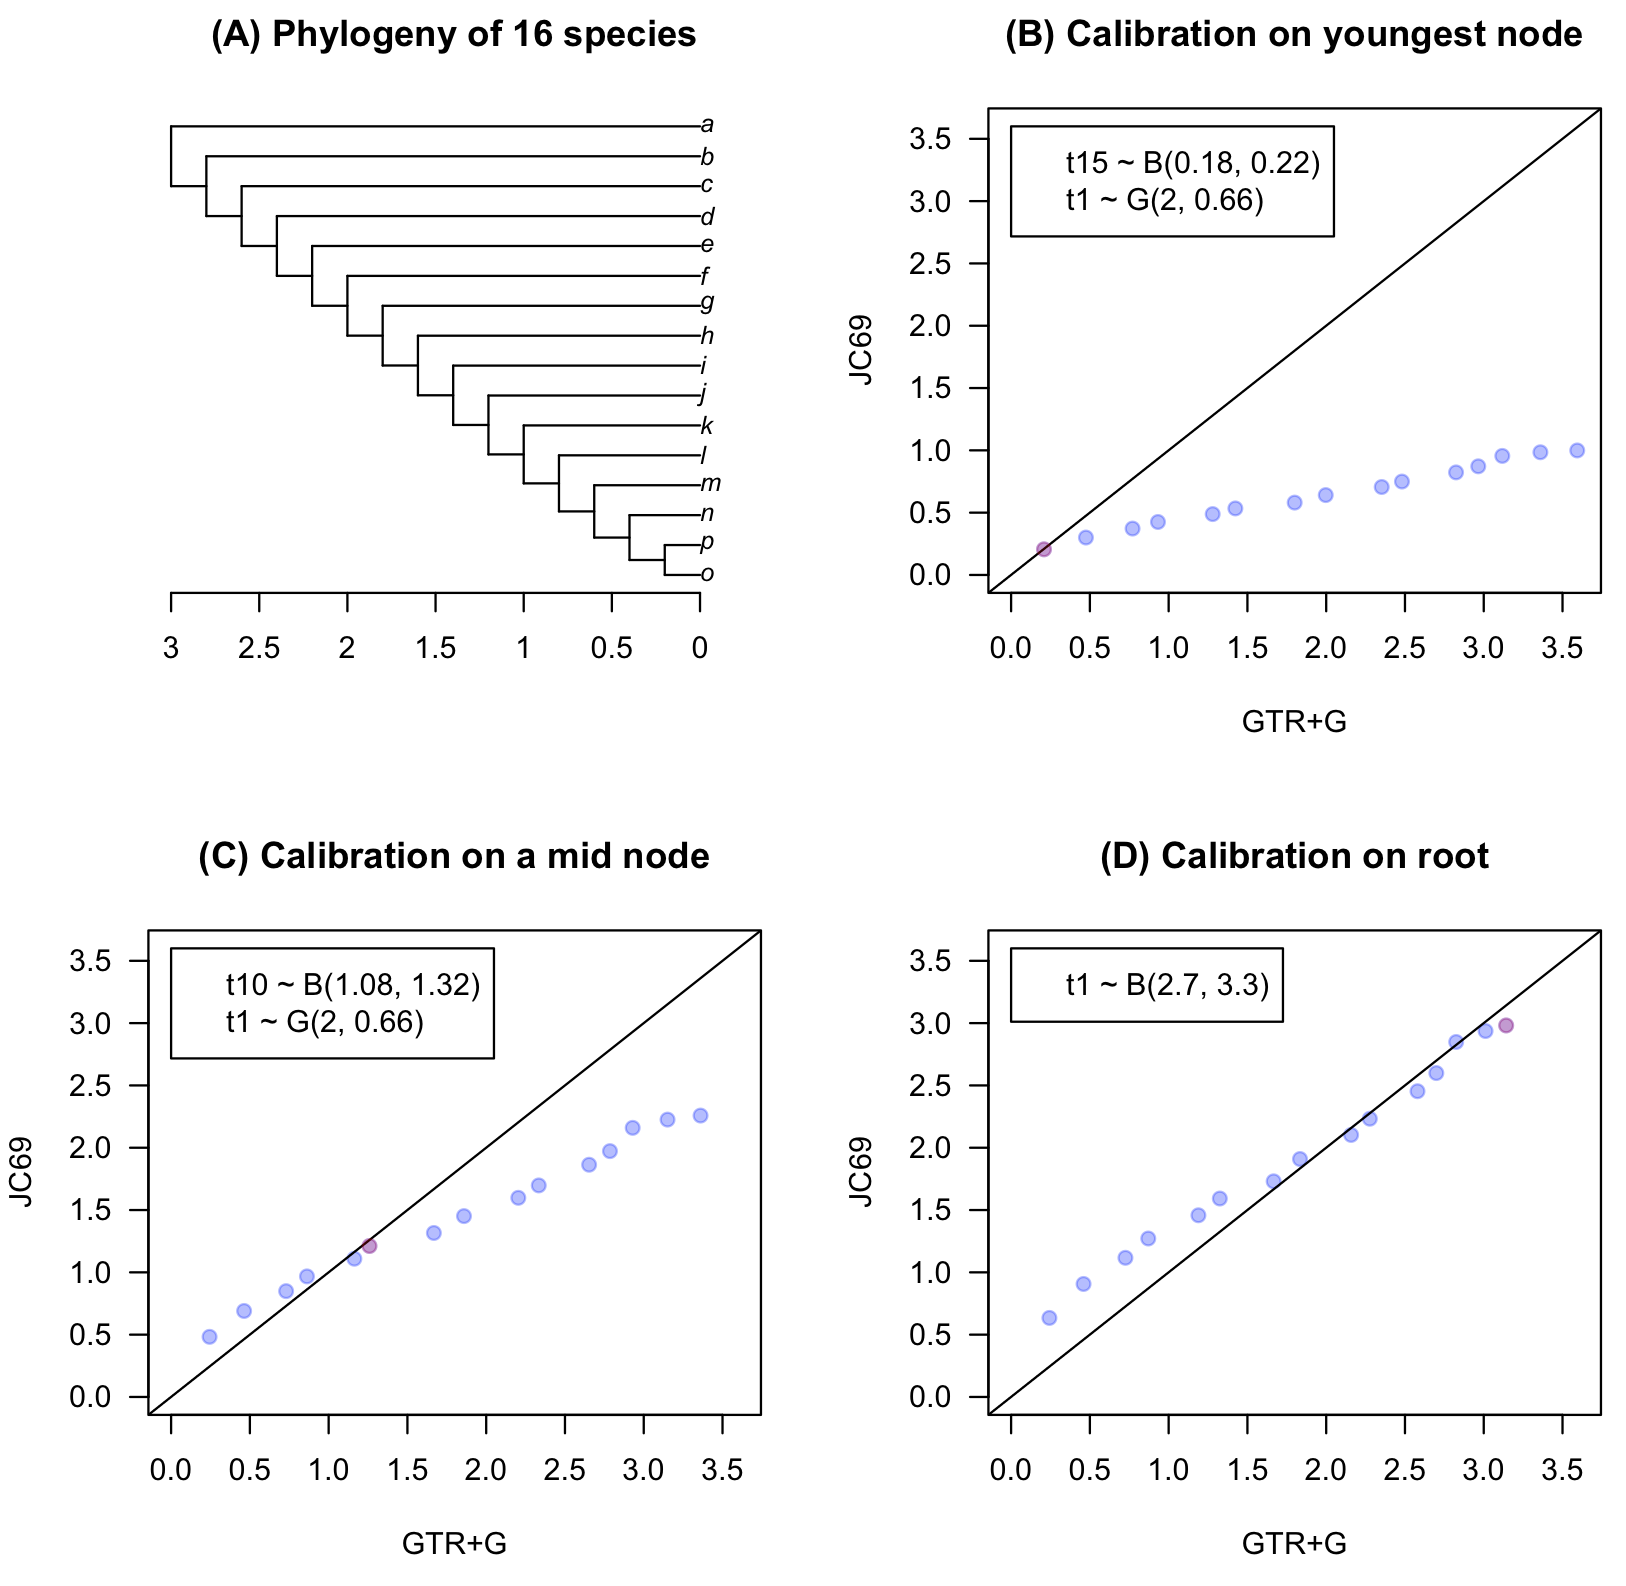
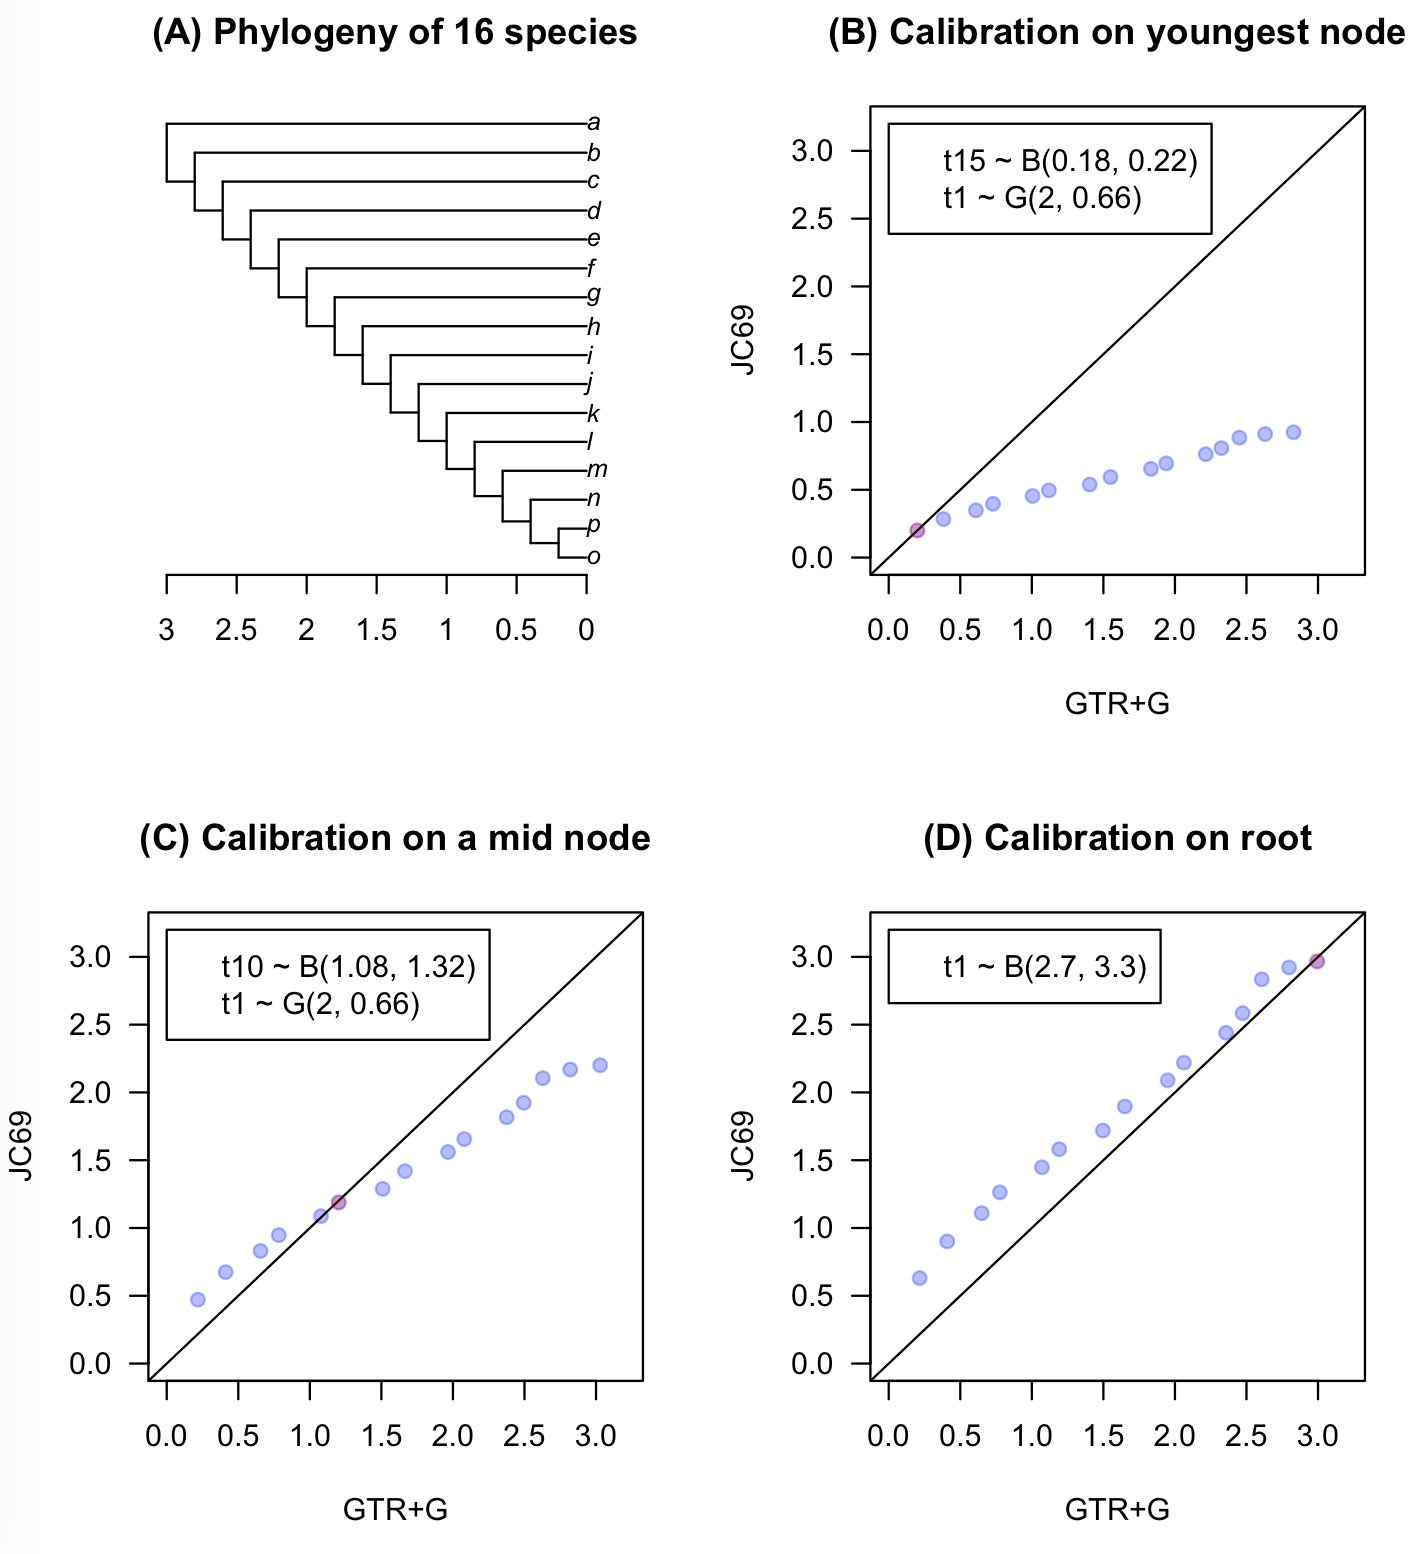
Update results in "Simple analysis" post after fixing the rate prior. It was r ~ G(2, 20), which is too low, in the previous version and has been fixed to r ~ G(2, 2), which matches the mean rate in the simulations.

diff --git a/_posts/2020-01-01-JC69vGTRG.md b/_posts/2020-01-01-JC69vGTRG.md
@@ -12,7 +12,7 @@ Evolver v4.9e. Mean substitution rate is 1.
 
 The data are then analysed with MCMCtree v4.9f to recover the divergence times under
 the JC69 and GTR+G substitution models using the approximate likelihood
-method and the strict clock.
+method and the strict clock. The rate prior is G(2, 2).
 
 In Figure 1B, posterior mean times estimated under JC69 are shown in the y axis,
 while corresponding estimates for GTR+G are shown in the x axis. Times are
@@ -71,109 +71,109 @@ Time estimates (the true ages for the 15 nodes are 0.2, 0.4, 0.6, ..., 2.6, 2.8,
 ```
 # Informative calibration on youngest node - JC69:
 node t t025 t975 t025.hpd t975.hpd w.hpd
-t_n17 0.9991 0.8160 1.2175 0.8068 1.2029 0.3960
-t_n18 0.9846 0.8059 1.1990 0.7941 1.1811 0.3870
-t_n19 0.9554 0.7806 1.1624 0.7723 1.1498 0.3774
-t_n20 0.8718 0.7136 1.0582 0.7001 1.0399 0.3398
-t_n21 0.8230 0.6746 0.9973 0.6639 0.9840 0.3201
-t_n22 0.7496 0.6145 0.9086 0.6097 0.9001 0.2904
-t_n23 0.7059 0.5772 0.8552 0.5727 0.8486 0.2760
-t_n24 0.6410 0.5247 0.7772 0.5187 0.7697 0.2510
-t_n25 0.5806 0.4756 0.7021 0.4674 0.6920 0.2246
-t_n26 0.5339 0.4378 0.6452 0.4329 0.6372 0.2044
-t_n27 0.4885 0.4010 0.5881 0.3984 0.5848 0.1865
-t_n28 0.4252 0.3501 0.5101 0.3459 0.5046 0.1588
-t_n29 0.3723 0.3080 0.4444 0.3058 0.4412 0.1354
-t_n30 0.3002 0.2521 0.3531 0.2494 0.3493 0.0999
-t_n31 0.2057 0.1816 0.2208 0.1829 0.2214 0.0385
+t_n17 0.9246 0.7374 1.1192 0.7326 1.1133 0.3808
+t_n18 0.9112 0.7262 1.0998 0.7190 1.0911 0.3720
+t_n19 0.8843 0.7046 1.0672 0.6988 1.0580 0.3593
+t_n20 0.8074 0.6478 0.9707 0.6438 0.9651 0.3213
+t_n21 0.7626 0.6131 0.9164 0.6113 0.9139 0.3026
+t_n22 0.6945 0.5583 0.8349 0.5600 0.8360 0.2760
+t_n23 0.6540 0.5263 0.7880 0.5180 0.7780 0.2600
+t_n24 0.5939 0.4794 0.7154 0.4767 0.7121 0.2354
+t_n25 0.5384 0.4346 0.6475 0.4312 0.6433 0.2121
+t_n26 0.4956 0.4017 0.5947 0.3981 0.5898 0.1917
+t_n27 0.4542 0.3678 0.5455 0.3635 0.5399 0.1764
+t_n28 0.3966 0.3228 0.4750 0.3205 0.4722 0.1517
+t_n29 0.3485 0.2862 0.4164 0.2840 0.4131 0.1291
+t_n30 0.2838 0.2378 0.3339 0.2366 0.3321 0.0955
+t_n31 0.1999 0.1800 0.2199 0.1802 0.2201 0.0399
 
 # Informative calibration on youngest node - GTR+G:
 node t t025 t975 t025.hpd t975.hpd w.hpd
-t_n17 3.5934 2.7091 4.7786 2.6343 4.6371 2.0029
-t_n18 3.3596 2.5708 4.3645 2.4917 4.2579 1.7662
-t_n19 3.1178 2.3844 4.0521 2.3242 3.9596 1.6354
-t_n20 2.9652 2.2758 3.8480 2.2114 3.7455 1.5341
-t_n21 2.8242 2.1690 3.6543 2.1355 3.5898 1.4543
-t_n22 2.4809 1.9058 3.2078 1.8807 3.1547 1.2741
-t_n23 2.3524 1.8073 3.0430 1.7701 2.9820 1.2119
-t_n24 1.9971 1.5198 2.6110 1.4753 2.5470 1.0717
-t_n25 1.7999 1.3730 2.3360 1.3421 2.2895 0.9474
-t_n26 1.4235 1.0848 1.8502 1.0614 1.8171 0.7557
-t_n27 1.2795 0.9724 1.6617 0.9339 1.6166 0.6827
-t_n28 0.9322 0.7040 1.2203 0.6879 1.1984 0.5106
-t_n29 0.7710 0.5842 1.0131 0.5700 0.9884 0.4184
-t_n30 0.4750 0.3608 0.6225 0.3518 0.6111 0.2593
-t_n31 0.2088 0.1846 0.2212 0.1872 0.2222 0.0350
+t_n17 2.8292 2.0607 3.8926 1.9619 3.7189 1.7570
+t_n18 2.6302 1.9624 3.4740 1.8940 3.3854 1.4914
+t_n19 2.4503 1.8236 3.2318 1.7728 3.1654 1.3926
+t_n20 2.3249 1.7360 3.0642 1.6732 2.9858 1.3126
+t_n21 2.2156 1.6535 2.9121 1.6364 2.8797 1.2433
+t_n22 1.9393 1.4553 2.5470 1.4271 2.5047 1.0775
+t_n23 1.8326 1.3719 2.4133 1.3306 2.3465 1.0159
+t_n24 1.5499 1.1505 2.0472 1.1294 2.0148 0.8854
+t_n25 1.4043 1.0503 1.8555 1.0240 1.8149 0.7908
+t_n26 1.1195 0.8351 1.4744 0.8106 1.4403 0.6297
+t_n27 1.0053 0.7478 1.3266 0.7245 1.2942 0.5697
+t_n28 0.7287 0.5416 0.9686 0.5345 0.9553 0.4208
+t_n29 0.6095 0.4545 0.8047 0.4446 0.7891 0.3445
+t_n30 0.3821 0.2916 0.4990 0.2832 0.4870 0.2038
+t_n31 0.2002 0.1801 0.2201 0.1802 0.2202 0.0400
 
 # Informative calibration on mid node - JC69:
 node t t025 t975 t025.hpd t975.hpd w.hpd
-t_n17 2.2581 1.9377 2.5930 1.9339 2.5854 0.6516
-t_n18 2.2257 1.9127 2.5521 1.9025 2.5403 0.6378
-t_n19 2.1597 1.8521 2.4801 1.8478 2.4736 0.6258
-t_n20 1.9728 1.7014 2.2558 1.6949 2.2476 0.5527
-t_n21 1.8635 1.6140 2.1244 1.6112 2.1213 0.5101
-t_n22 1.6975 1.4730 1.9288 1.4721 1.9270 0.4549
-t_n23 1.5981 1.3912 1.8098 1.3887 1.8064 0.4177
-t_n24 1.4514 1.2696 1.6332 1.2654 1.6271 0.3617
-t_n25 1.3160 1.1609 1.4649 1.1603 1.4636 0.3032
-t_n26 1.2115 1.0821 1.3220 1.0840 1.3238 0.2397
-t_n27 1.1093 0.9737 1.2351 0.9772 1.2378 0.2606
-t_n28 0.9675 0.8378 1.0925 0.8391 1.0937 0.2546
-t_n29 0.8492 0.7293 0.9720 0.7252 0.9675 0.2423
-t_n30 0.6901 0.5801 0.8042 0.5796 0.8035 0.2239
-t_n31 0.4825 0.3935 0.5797 0.3885 0.5741 0.1856
+t_n17 2.2005 1.9058 2.5448 1.9030 2.5383 0.6354
+t_n18 2.1690 1.8807 2.5020 1.8807 2.5016 0.6209
+t_n19 2.1052 1.8263 2.4340 1.8160 2.4215 0.6056
+t_n20 1.9232 1.6746 2.2143 1.6583 2.1938 0.5356
+t_n21 1.8170 1.5859 2.0877 1.5764 2.0750 0.4986
+t_n22 1.6561 1.4507 1.8987 1.4424 1.8892 0.4469
+t_n23 1.5606 1.3707 1.7804 1.3642 1.7725 0.4082
+t_n24 1.4192 1.2565 1.6133 1.2524 1.6066 0.3541
+t_n25 1.2886 1.1521 1.4507 1.1468 1.4439 0.2970
+t_n26 1.1886 1.0786 1.3186 1.0765 1.3160 0.2395
+t_n27 1.0875 0.9664 1.2239 0.9650 1.2218 0.2568
+t_n28 0.9472 0.8299 1.0805 0.8266 1.0762 0.2495
+t_n29 0.8309 0.7188 0.9578 0.7154 0.9538 0.2385
+t_n30 0.6744 0.5715 0.7916 0.5701 0.7896 0.2195
+t_n31 0.4712 0.3856 0.5690 0.3819 0.5644 0.1825
 
 # Informative calibration on mid node - GTR+G:
 node t t025 t975 t025.hpd t975.hpd w.hpd
-t_n17 3.3606 2.7580 4.1452 2.7173 4.0630 1.3457
-t_n18 3.1511 2.6142 3.7574 2.5983 3.7391 1.1408
-t_n19 2.9298 2.4335 3.4957 2.4152 3.4757 1.0605
-t_n20 2.7855 2.3184 3.3119 2.3184 3.3111 0.9927
-t_n21 2.6532 2.2065 3.1520 2.1884 3.1276 0.9392
-t_n22 2.3336 1.9461 2.7630 1.9329 2.7439 0.8110
-t_n23 2.2038 1.8437 2.6039 1.8242 2.5813 0.7572
-t_n24 1.8590 1.5435 2.2238 1.5370 2.2129 0.6759
-t_n25 1.6679 1.3916 1.9913 1.3793 1.9724 0.5930
-t_n26 1.2592 1.1174 1.3278 1.1375 1.3368 0.1993
-t_n27 1.1633 0.9892 1.2929 1.0084 1.3045 0.2961
-t_n28 0.8623 0.7148 1.0111 0.7147 1.0109 0.2962
-t_n29 0.7301 0.5915 0.8752 0.5868 0.8688 0.2820
-t_n30 0.4634 0.3679 0.5713 0.3625 0.5654 0.2029
-t_n31 0.2442 0.1834 0.3130 0.1811 0.3096 0.1285
+t_n17 3.0291 2.4090 3.9177 2.3514 3.7879 1.4365
+t_n18 2.8195 2.2762 3.4629 2.2428 3.4188 1.1760
+t_n19 2.6283 2.1260 3.2244 2.0916 3.1796 1.0881
+t_n20 2.4949 2.0247 3.0473 2.0036 3.0195 1.0159
+t_n21 2.3760 1.9306 2.8986 1.9023 2.8591 0.9568
+t_n22 2.0792 1.6959 2.5291 1.6605 2.4884 0.8278
+t_n23 1.9657 1.6105 2.3806 1.5942 2.3595 0.7654
+t_n24 1.6652 1.3659 2.0295 1.3541 2.0075 0.6534
+t_n25 1.5091 1.2551 1.8247 1.2342 1.7938 0.5596
+t_n26 1.2016 1.0800 1.3202 1.0806 1.3205 0.2399
+t_n27 1.0785 0.8811 1.2604 0.8904 1.2670 0.3766
+t_n28 0.7829 0.6289 0.9488 0.6218 0.9411 0.3192
+t_n29 0.6557 0.5163 0.8084 0.5126 0.8027 0.2900
+t_n30 0.4119 0.3196 0.5182 0.3156 0.5131 0.1974
+t_n31 0.2180 0.1617 0.2835 0.1587 0.2788 0.1200
 
 # Informative calibration on root node - JC69:
 node t t025 t975 t025.hpd t975.hpd w.hpd
-t_n17 2.9813 2.6993 3.2943 2.6998 3.2945 0.5947
-t_n18 2.9367 2.6444 3.2627 2.6545 3.2708 0.6163
-t_n19 2.8487 2.5466 3.1816 2.5493 3.1833 0.6339
-t_n20 2.5993 2.3034 2.9224 2.3021 2.9209 0.6189
-t_n21 2.4535 2.1661 2.7722 2.1585 2.7608 0.6023
-t_n22 2.2328 1.9662 2.5335 1.9570 2.5227 0.5657
-t_n23 2.1027 1.8445 2.3940 1.8448 2.3940 0.5492
-t_n24 1.9095 1.6729 2.1825 1.6616 2.1680 0.5065
-t_n25 1.7305 1.5108 1.9822 1.4972 1.9669 0.4697
-t_n26 1.5924 1.3850 1.8298 1.3792 1.8199 0.4408
-t_n27 1.4579 1.2614 1.6823 1.2590 1.6791 0.4200
-t_n28 1.2715 1.0925 1.4769 1.0843 1.4658 0.3815
-t_n29 1.1167 0.9546 1.3015 0.9498 1.2949 0.3451
-t_n30 0.9068 0.7631 1.0717 0.7535 1.0598 0.3063
-t_n31 0.6343 0.5183 0.7672 0.5135 0.7603 0.2468
+t_n17 2.9669 2.6969 3.2941 2.6910 3.2874 0.5964
+t_n18 2.9218 2.6372 3.2606 2.6402 3.2632 0.6230
+t_n19 2.8343 2.5355 3.1781 2.5458 3.1868 0.6410
+t_n20 2.5846 2.2886 2.9241 2.2806 2.9150 0.6344
+t_n21 2.4395 2.1520 2.7711 2.1385 2.7562 0.6177
+t_n22 2.2199 1.9513 2.5277 1.9470 2.5220 0.5751
+t_n23 2.0894 1.8282 2.3937 1.8197 2.3793 0.5596
+t_n24 1.8965 1.6501 2.1767 1.6430 2.1673 0.5242
+t_n25 1.7188 1.4927 1.9768 1.4820 1.9637 0.4817
+t_n26 1.5811 1.3672 1.8228 1.3616 1.8166 0.4550
+t_n27 1.4476 1.2446 1.6776 1.2358 1.6642 0.4284
+t_n28 1.2629 1.0798 1.4716 1.0733 1.4633 0.3900
+t_n29 1.1093 0.9440 1.2957 0.9433 1.2949 0.3516
+t_n30 0.9010 0.7552 1.0664 0.7523 1.0628 0.3106
+t_n31 0.6303 0.5145 0.7633 0.5096 0.7564 0.2467
 
 # Informative calibration on root node - GTR+G:
 node t t025 t975 t025.hpd t975.hpd w.hpd
-t_n17 3.1422 2.7822 3.3201 2.8271 3.3436 0.5165
-t_n18 3.0115 2.6293 3.2711 2.6725 3.2919 0.6194
-t_n19 2.8250 2.4328 3.1493 2.4523 3.1620 0.7096
-t_n20 2.6991 2.3154 3.0326 2.3488 3.0643 0.7155
-t_n21 2.5795 2.2041 2.9185 2.2097 2.9226 0.7129
-t_n22 2.2769 1.9392 2.5922 1.9389 2.5915 0.6526
-t_n23 2.1582 1.8365 2.4693 1.8412 2.4733 0.6321
-t_n24 1.8337 1.5373 2.1385 1.5341 2.1348 0.6007
-t_n25 1.6664 1.3800 1.9604 1.3685 1.9485 0.5800
-t_n26 1.3248 1.0894 1.5760 1.0787 1.5637 0.4850
-t_n27 1.1889 0.9751 1.4170 0.9722 1.4132 0.4410
-t_n28 0.8706 0.7070 1.0516 0.7012 1.0426 0.3414
-t_n29 0.7257 0.5865 0.8734 0.5851 0.8705 0.2853
-t_n30 0.4599 0.3634 0.5661 0.3610 0.5631 0.2021
-t_n31 0.2431 0.1819 0.3125 0.1806 0.3108 0.1302
+t_n17 2.9943 2.6997 3.2979 2.6953 3.2928 0.5975
+t_n18 2.7976 2.2899 3.2102 2.3657 3.2508 0.8851
+t_n19 2.6069 2.1096 3.0547 2.1315 3.0686 0.9370
+t_n20 2.4736 1.9939 2.9188 2.0132 2.9357 0.9225
+t_n21 2.3575 1.8839 2.7978 1.9258 2.8326 0.9068
+t_n22 2.0630 1.6377 2.4664 1.6697 2.4912 0.8215
+t_n23 1.9494 1.5458 2.3333 1.5707 2.3547 0.7840
+t_n24 1.6500 1.2951 2.0070 1.3040 2.0142 0.7102
+t_n25 1.4964 1.1628 1.8283 1.1678 1.8312 0.6634
+t_n26 1.1915 0.9212 1.4717 0.9197 1.4689 0.5492
+t_n27 1.0707 0.8287 1.3210 0.8281 1.3202 0.4921
+t_n28 0.7767 0.5950 0.9696 0.5868 0.9592 0.3724
+t_n29 0.6499 0.4956 0.8132 0.4924 0.8096 0.3171
+t_n30 0.4091 0.3067 0.5201 0.3049 0.5179 0.2130
+t_n31 0.2166 0.1550 0.2852 0.1552 0.2852 0.1300
 ```
